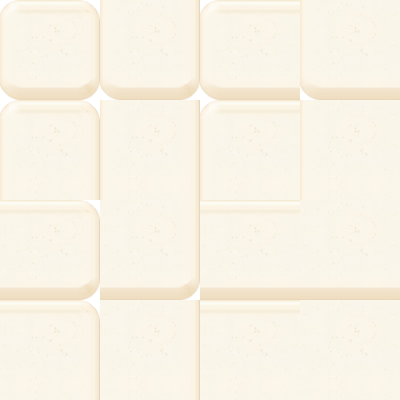
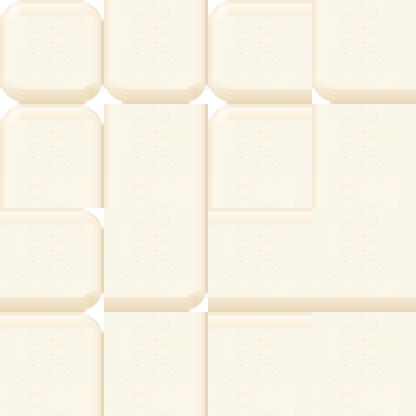
Reource更新

diff --git a/Source/PlayerPiece.cpp b/Source/PlayerPiece.cpp
@@ -57,7 +57,7 @@ void PlayerPiece::SetAutoTileMask(int _mask)
 		return;
 
 	const int clampedMask = _mask & 0x0F;
-	const int srcX = (clampedMask % TILE_COLS) * TILE_SIZE;
-	const int srcY = (clampedMask / TILE_COLS) * TILE_SIZE;
+	const int srcX = (clampedMask % TILE_COLS) * TILE_STRIDE + TILE_PADDING;
+	const int srcY = (clampedMask / TILE_COLS) * TILE_STRIDE + TILE_PADDING;
 	graphic->SetSourceRect(srcX, srcY, TILE_SIZE, TILE_SIZE);
 }

diff --git a/Source/PlayerPiece.h b/Source/PlayerPiece.h
@@ -35,6 +35,8 @@ protected:
 	}
 private:
 	static constexpr int TILE_SIZE = 100;
+	static constexpr int TILE_PADDING = 2;
+	static constexpr int TILE_STRIDE = TILE_SIZE + TILE_PADDING * 2;
 	static constexpr int TILE_COLS = 4;
 
 	Player* mpPlayer = nullptr;	// ハブとなるPlayerのポインタ
